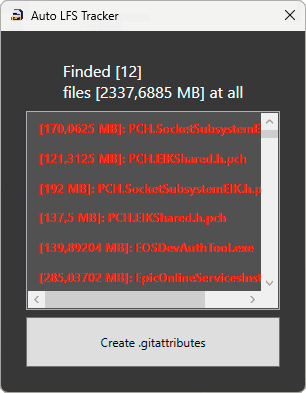
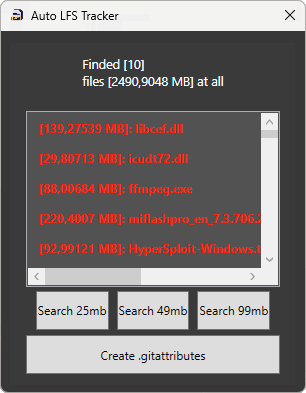
3 modes added

diff --git a/GitLFSAutoTracker/MainWindow.xaml b/GitLFSAutoTracker/MainWindow.xaml
@@ -7,7 +7,7 @@
         xmlns:local="clr-namespace:GitLFSAutoTracker"
         mc:Ignorable="d"
         Title="Auto LFS Tracker" MaxHeight="400" MaxWidth="320" MinHeight="400" MinWidth="320" ResizeMode="NoResize" Background="#FF3A3A3A">
-    
+
     <Grid>
         <Grid.ColumnDefinitions>
             <ColumnDefinition Width="1*"/>
@@ -17,8 +17,10 @@
         <Grid.RowDefinitions>
             <RowDefinition Height="1*"/>
             <RowDefinition Height="2*"/>
+            <RowDefinition Height="1*"/>
+            <RowDefinition Height="9*"/>
             <RowDefinition Height="0.2*"/>
-            <RowDefinition Height="8*"/>
+            <RowDefinition Height="2*"/>
             <RowDefinition Height="0.3*"/>
             <RowDefinition Height="2*"/>
             <RowDefinition Height="1*"/>
@@ -27,8 +29,14 @@
             <Label x:Name="Label_FilesCounter" Foreground="White" FontSize="22" Content="Finded files &gt; then 50mb"/>
         </Viewbox>
         <ListBox x:Name="ListBox_Files" Grid.Row="3" Grid.Column="1" Background="#FF525252">
-            
+
         </ListBox>
-        <Button x:Name="Button_CreateAttributes" Grid.Column="1" Content="Create .gitattributes" Grid.Row="5"/>
+        <StackPanel x:Name="StackPanel_SizeButtons" Grid.Column="1" Grid.Row="5" Orientation="Horizontal" HorizontalAlignment="Center" UseLayoutRounding="False" SnapsToDevicePixels="True" >
+            <Button x:Name="Button_Search25mb" Content="Search 25mb" Margin="4,0,4,0"/>
+            <Button x:Name="Button_Search49mb" Content="Search 49mb" Margin="4,0,4,0"/>
+            <Button x:Name="Button_Search99mb" Content="Search 99mb" Margin="4,0,4,0"/>
+        </StackPanel>
+
+        <Button x:Name="Button_CreateAttributes" Grid.Column="1" Content="Create .gitattributes" Grid.Row="7"/>
     </Grid>
 </Window>

diff --git a/GitLFSAutoTracker/MainWindow.xaml.cs b/GitLFSAutoTracker/MainWindow.xaml.cs
@@ -11,7 +11,7 @@ namespace GitLFSAutoTracker {
 
     public partial class MainWindow : Window {
 
-        public const float DECLARED_LFS_FILE_SIZE = 99f;
+        public float lfs_file_size = 25f;
 
         public event Action<int>? OnReceivedFilesCount = null;
         public event Action<string, long>? OnReadedFileSize = null;
@@ -25,17 +25,53 @@ namespace GitLFSAutoTracker {
 
         public MainWindow() {
             InitializeComponent();
+            ExecuteSearch();
+            InitMainEvents();
+            InitButtonEvents();
+        }
 
+        public void ExecuteSearch() {
+            bigFiles.Value.Clear();
             Button_CreateAttributes.Visibility = Visibility.Collapsed;
-
+            StackPanel_SizeButtons.Visibility = Visibility.Collapsed;
+            ListBox_Files.Items.Clear();
+            Label_FilesCounter.Content = $"Started search files with [{lfs_file_size} MB] size";
             Task.Run(SearchLocalFiles).ConfigureAwait(false);
+        }
+        public async Task SearchLocalFiles() {
 
-            Label_FilesCounter.Content = $"Started search files with [{DECLARED_LFS_FILE_SIZE} MB] size";
+            // search all files
+            string workingDirectory = Environment.CurrentDirectory;
+            ReadOnlyMemory<string> findedPaths = Directory.GetFiles(workingDirectory, "*", searchOption: SearchOption.AllDirectories).AsMemory();
 
+            // tracked all files Event
+            OnReceivedFilesCount?.Invoke(findedPaths.Length);
+
+            // detect big files Event
+            float sumSize = 0f;
+            for (int i = 0; i < findedPaths.Length; i++) {
+                FileInfo fileInfo = new FileInfo(findedPaths.Span[i]);
+                OnReadedFileSize?.Invoke(fileInfo.Name, fileInfo.Length);
+
+                string firstFolder = fileInfo.FullName.Replace(Environment.CurrentDirectory, "").Remove(0, 1).Split('\\')[0];
+                if (firstFolder == ".git") continue;
+
+                if (fileInfo.Length / 1024f / 1024f >= lfs_file_size) {
+                    sumSize += fileInfo.Length / 1024f / 1024f;
+                    bigFiles.Value.Push(fileInfo);
+                }
+            }
+
+            // on ended Event
+            OnTrackEnded?.Invoke(sumSize);
+
+            await Task.Yield();
+        }
+        public int InitMainEvents() {
             OnReadedFileSize += (name, size) => {
                 Dispatcher.Invoke(() => {
 
-                    if ((size / 1024f / 1024f) > DECLARED_LFS_FILE_SIZE) {
+                    if ((size / 1024f / 1024f) > lfs_file_size) {
                         ListBox_Files.Items.Insert(0, new Label() {
                             Content = $"[{(Math.Round(size / 1024f / 1024f, 5))} MB]: {name}",
                             Foreground = trackedColor,
@@ -56,9 +92,13 @@ namespace GitLFSAutoTracker {
                 Dispatcher.Invoke(() => {
                     Button_CreateAttributes.Visibility = Visibility.Visible;
                     Label_FilesCounter.Content = $"Finded [{bigFiles.Value.Count}]\nfiles [{fullSize} MB] at all";
+                    StackPanel_SizeButtons.Visibility = Visibility.Visible;
                 });
             };
 
+            return 0;
+        }
+        public int InitButtonEvents() {
             Button_CreateAttributes.Click += (sender, e) => {
                 StringBuilder sBuilder = new StringBuilder();
                 // filter=lfs diff=lfs merge=lfs -text
@@ -75,34 +115,12 @@ namespace GitLFSAutoTracker {
                 Thread.Sleep(1000);
                 Process.GetCurrentProcess().Kill();
             };
-        }
 
-        public async Task SearchLocalFiles() {
+            Button_Search25mb.Click += (sender, e) => { lfs_file_size = 25f; ExecuteSearch(); };
+            Button_Search49mb.Click += (sender, e) => { lfs_file_size = 49f; ExecuteSearch(); };
+            Button_Search99mb.Click += (sender, e) => { lfs_file_size = 99f; ExecuteSearch(); };
 
-            // search all files
-            string workingDirectory = Environment.CurrentDirectory;
-            ReadOnlyMemory<string> findedPaths = Directory.GetFiles(workingDirectory, "*", searchOption: SearchOption.AllDirectories).AsMemory();
-
-            // tracked all files Event
-            OnReceivedFilesCount?.Invoke(findedPaths.Length);
-
-            // detect big files Event
-            float sumSize = 0f;
-            for (int i = 0; i < findedPaths.Length; i++) {
-                FileInfo fileInfo = new FileInfo(findedPaths.Span[i]);
-                OnReadedFileSize?.Invoke(fileInfo.Name, fileInfo.Length);
-
-                string firstFolder = fileInfo.FullName.Replace(Environment.CurrentDirectory, "").Remove(0, 1).Split('\\')[0];
-                if (firstFolder == ".git") continue;
-
-                if (fileInfo.Length / 1024f / 1024f >= DECLARED_LFS_FILE_SIZE) {
-                    sumSize += fileInfo.Length / 1024f / 1024f;
-                    bigFiles.Value.Push(fileInfo);
-                }
-            }
-
-            // on ended Event
-            OnTrackEnded?.Invoke(sumSize);
+            return 0;
         }
     }
 }

diff --git a/README.md b/README.md
@@ -8,8 +8,17 @@
 
 ## Description
 
-	This widget searches for files larger than ```99 megabytes``` in the working directory and creates a ```.gitattributes``` file with a list of these files.
+> [!WARNING]
+>
+> GitHub will warn you if the file size exceeds 50 MB with each push request. Optimal limits are 25 MB and 49 MB.
+
+	This widget searches for files larger than ```25/49/99 megabytes``` in the working directory and creates a ```.gitattributes``` file with a list of these files.
+
+<a>
+
+<img src="git_res/preview.png" align="center" height="512"/>
+
+</a> 
 
 
 
-<img src="git_res/preview.png" align="center" height="512"/> 
